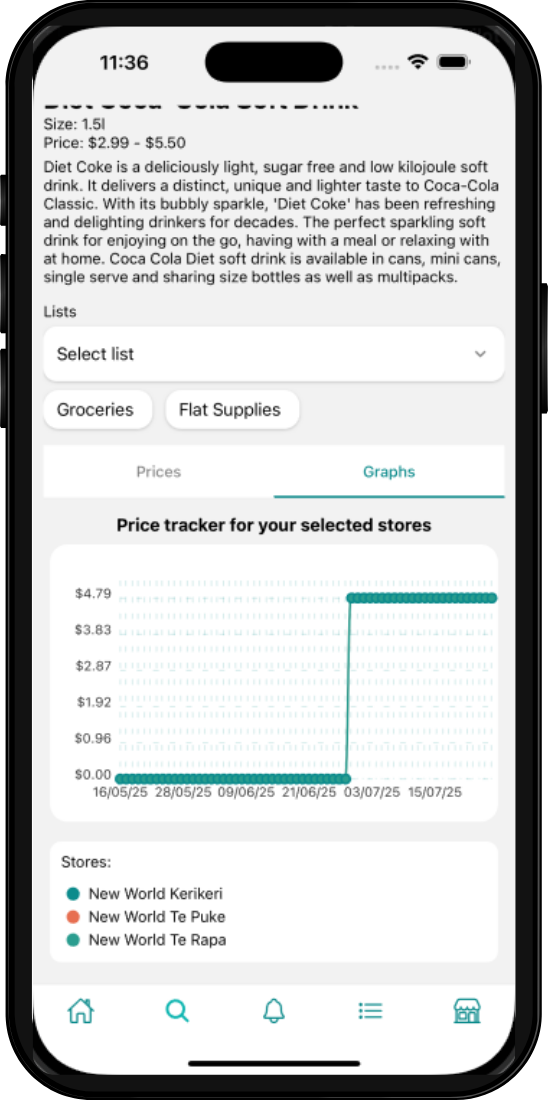
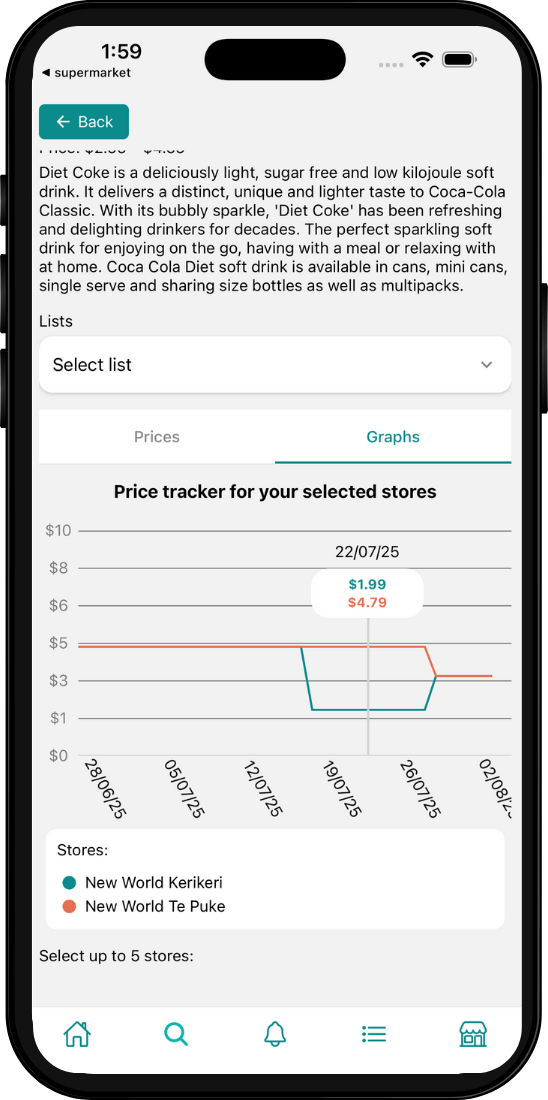
Updating cartsy graph image to be up to date with graph, also added a proper readme

diff --git a/build/index.html b/build/index.html
@@ -1,1 +1,1 @@
-<!doctype html><html lang="en"><head><meta charset="utf-8"/><link rel="icon" href="/website_logo.ico"/><meta name="viewport" content="width=device-width,initial-scale=1"/><meta name="theme-color" content="#000000"/><meta name="description" content="Web site created using create-react-app"/><link rel="apple-touch-icon" href="/website_logo.png"/><link rel="manifest" href="/manifest.json"/><title>Caleb Cooper</title><script defer="defer" src="/static/js/main.dd47fd00.js"></script><link href="/static/css/main.3f9fd563.css" rel="stylesheet"></head><body><noscript>You need to enable JavaScript to run this app.</noscript><div id="root"></div></body></html>
+<!doctype html><html lang="en"><head><meta charset="utf-8"/><link rel="icon" href="/website_logo.ico"/><meta name="viewport" content="width=device-width,initial-scale=1"/><meta name="theme-color" content="#000000"/><meta name="description" content="Web site created using create-react-app"/><link rel="apple-touch-icon" href="/website_logo.png"/><link rel="manifest" href="/manifest.json"/><title>Caleb Cooper</title><script defer="defer" src="/static/js/main.6db5a611.js"></script><link href="/static/css/main.580c7660.css" rel="stylesheet"></head><body><noscript>You need to enable JavaScript to run this app.</noscript><div id="root"></div></body></html>

diff --git a/src/App.js b/src/App.js
@@ -1,4 +1,3 @@
-// File: src/App.js
 import React from "react";
 import Navbar from "./components/Navbar";
 import Projects from "./components/Projects";

diff --git a/README.md b/README.md
@@ -1,1 +1,9 @@
-# 🚧COMING SOON🚧
+# 🚧 Welcome to my Personal Website 🚧
+
+This is a simple personal website built with ReactJS, HTML, CSS, and JavaScript. It serves as a portfolio to showcase my projects and skills.
+
+To visit, go to:
+
+<p style="text-align: center;">
+  <a href="https://calebcooper.co.nz" target="_blank" style="font-weight:bolder; font-size:1.2em;">calebcooper.co.nz</a>
+</p>
